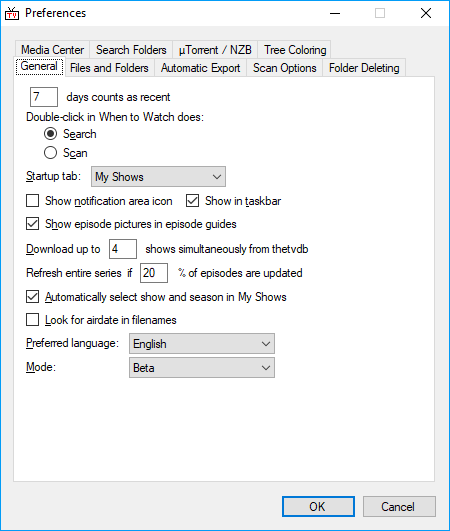
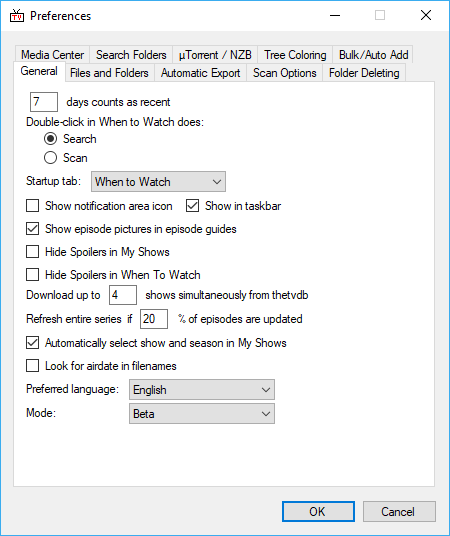
updating preferences general

diff --git a/_manual/options/preferences-general.md b/_manual/options/preferences-general.md
@@ -28,9 +28,21 @@ Both boxes can be ticked, in which case you get both functionalities.
 
 _Default:_ _**Ticked**_
 
+*Hide Spoilers in My Shows* hides the display of summaries of yet to be broadcast episodes (with a suitable message) in the _**My Shows**_  tab
+
+_Default:_ _**Un-ticked**_
+
+*Hide Spoilers in When To Watch* hides the display of summaries of yet to be broadcast episodes (with a suitable message) in the _**When to watch**_ tab
+
+_Default:_ _**Un-ticked**_
+
 *Download up to "X" shows simultaneously from [The&nbsp;TVDB](http://thetvdb.com "Visit TheTVDB.com")* sets the number of concurrent connections to TheTVDB API. It can be set in the range to 1 to 8.
 
 _Default:_ _**4**_
+
+*Refresh entire series if "X" % of episodes are updated* sets the point at which TV&nbsp;Rename refreshes the entire series data from [The&nbsp;TVDB](http://thetvdb.com 'Visit thetvdb.com') rather than just the episode data. This speeds up local data updates if major changes are made to a show on [The&nbsp;TVDB](http://thetvdb.com 'Visit thetvdb.com').
+
+_Default:_ _**20%**_
 
 *Automatically select show and season in My&nbsp;Shows*
 If ticked this works for both the _**When to watch**_ and _**Scan**_ tabs. If an item is selected in either of these tabs the _**My&nbsp;Shows**_ tab is automatically updated to highlight the indicated show and season.
@@ -50,7 +62,7 @@ _Default:_ _**Un-ticked**_
 
 The _Preferred language:_ drop-down sets the language for returned data when requesting information from TheTVDB API. TV&nbsp;Rename will request "English" If the selected language is not available.
 
-The _Mode:_ drop-down, (new in Version 2.3.2) allows you to preview functionality that is being worked on but not yet ready for the mainstream releases. The options available are “Production” and “Beta”.
+The _Mode:_ drop-down allows you to preview functionality that is being worked on but not yet ready for the mainstream releases. The options available are “Production” and “Beta”.
 
 In Production mode the application looks and behaves as normal.
 
